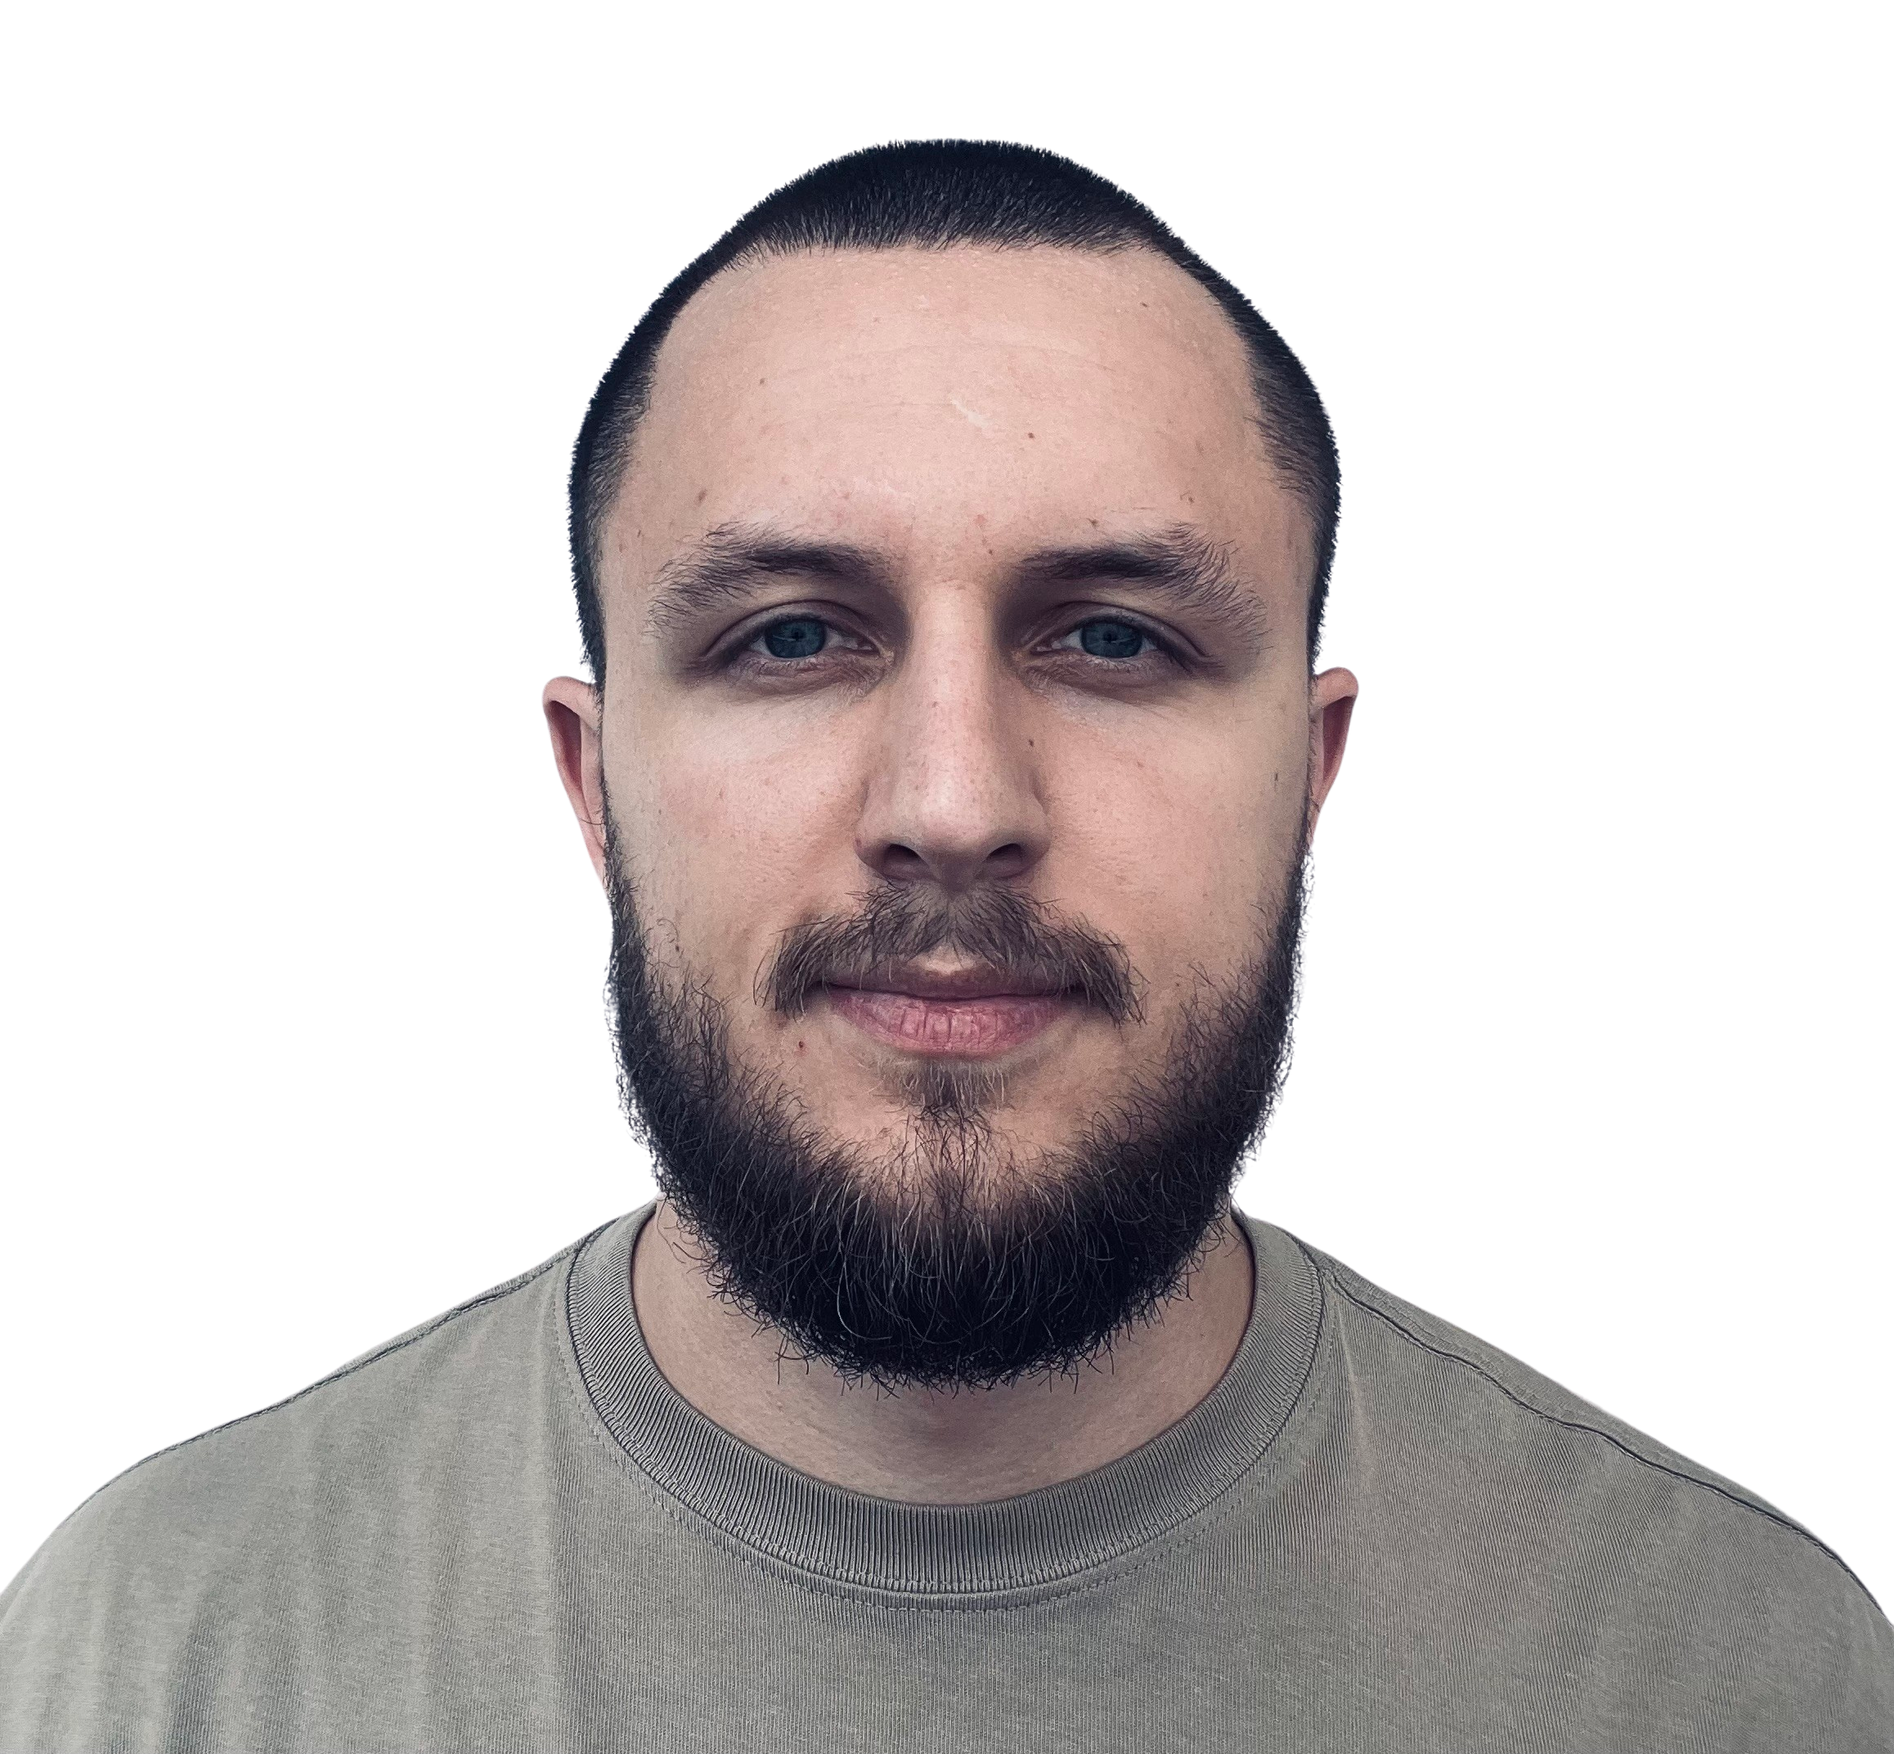
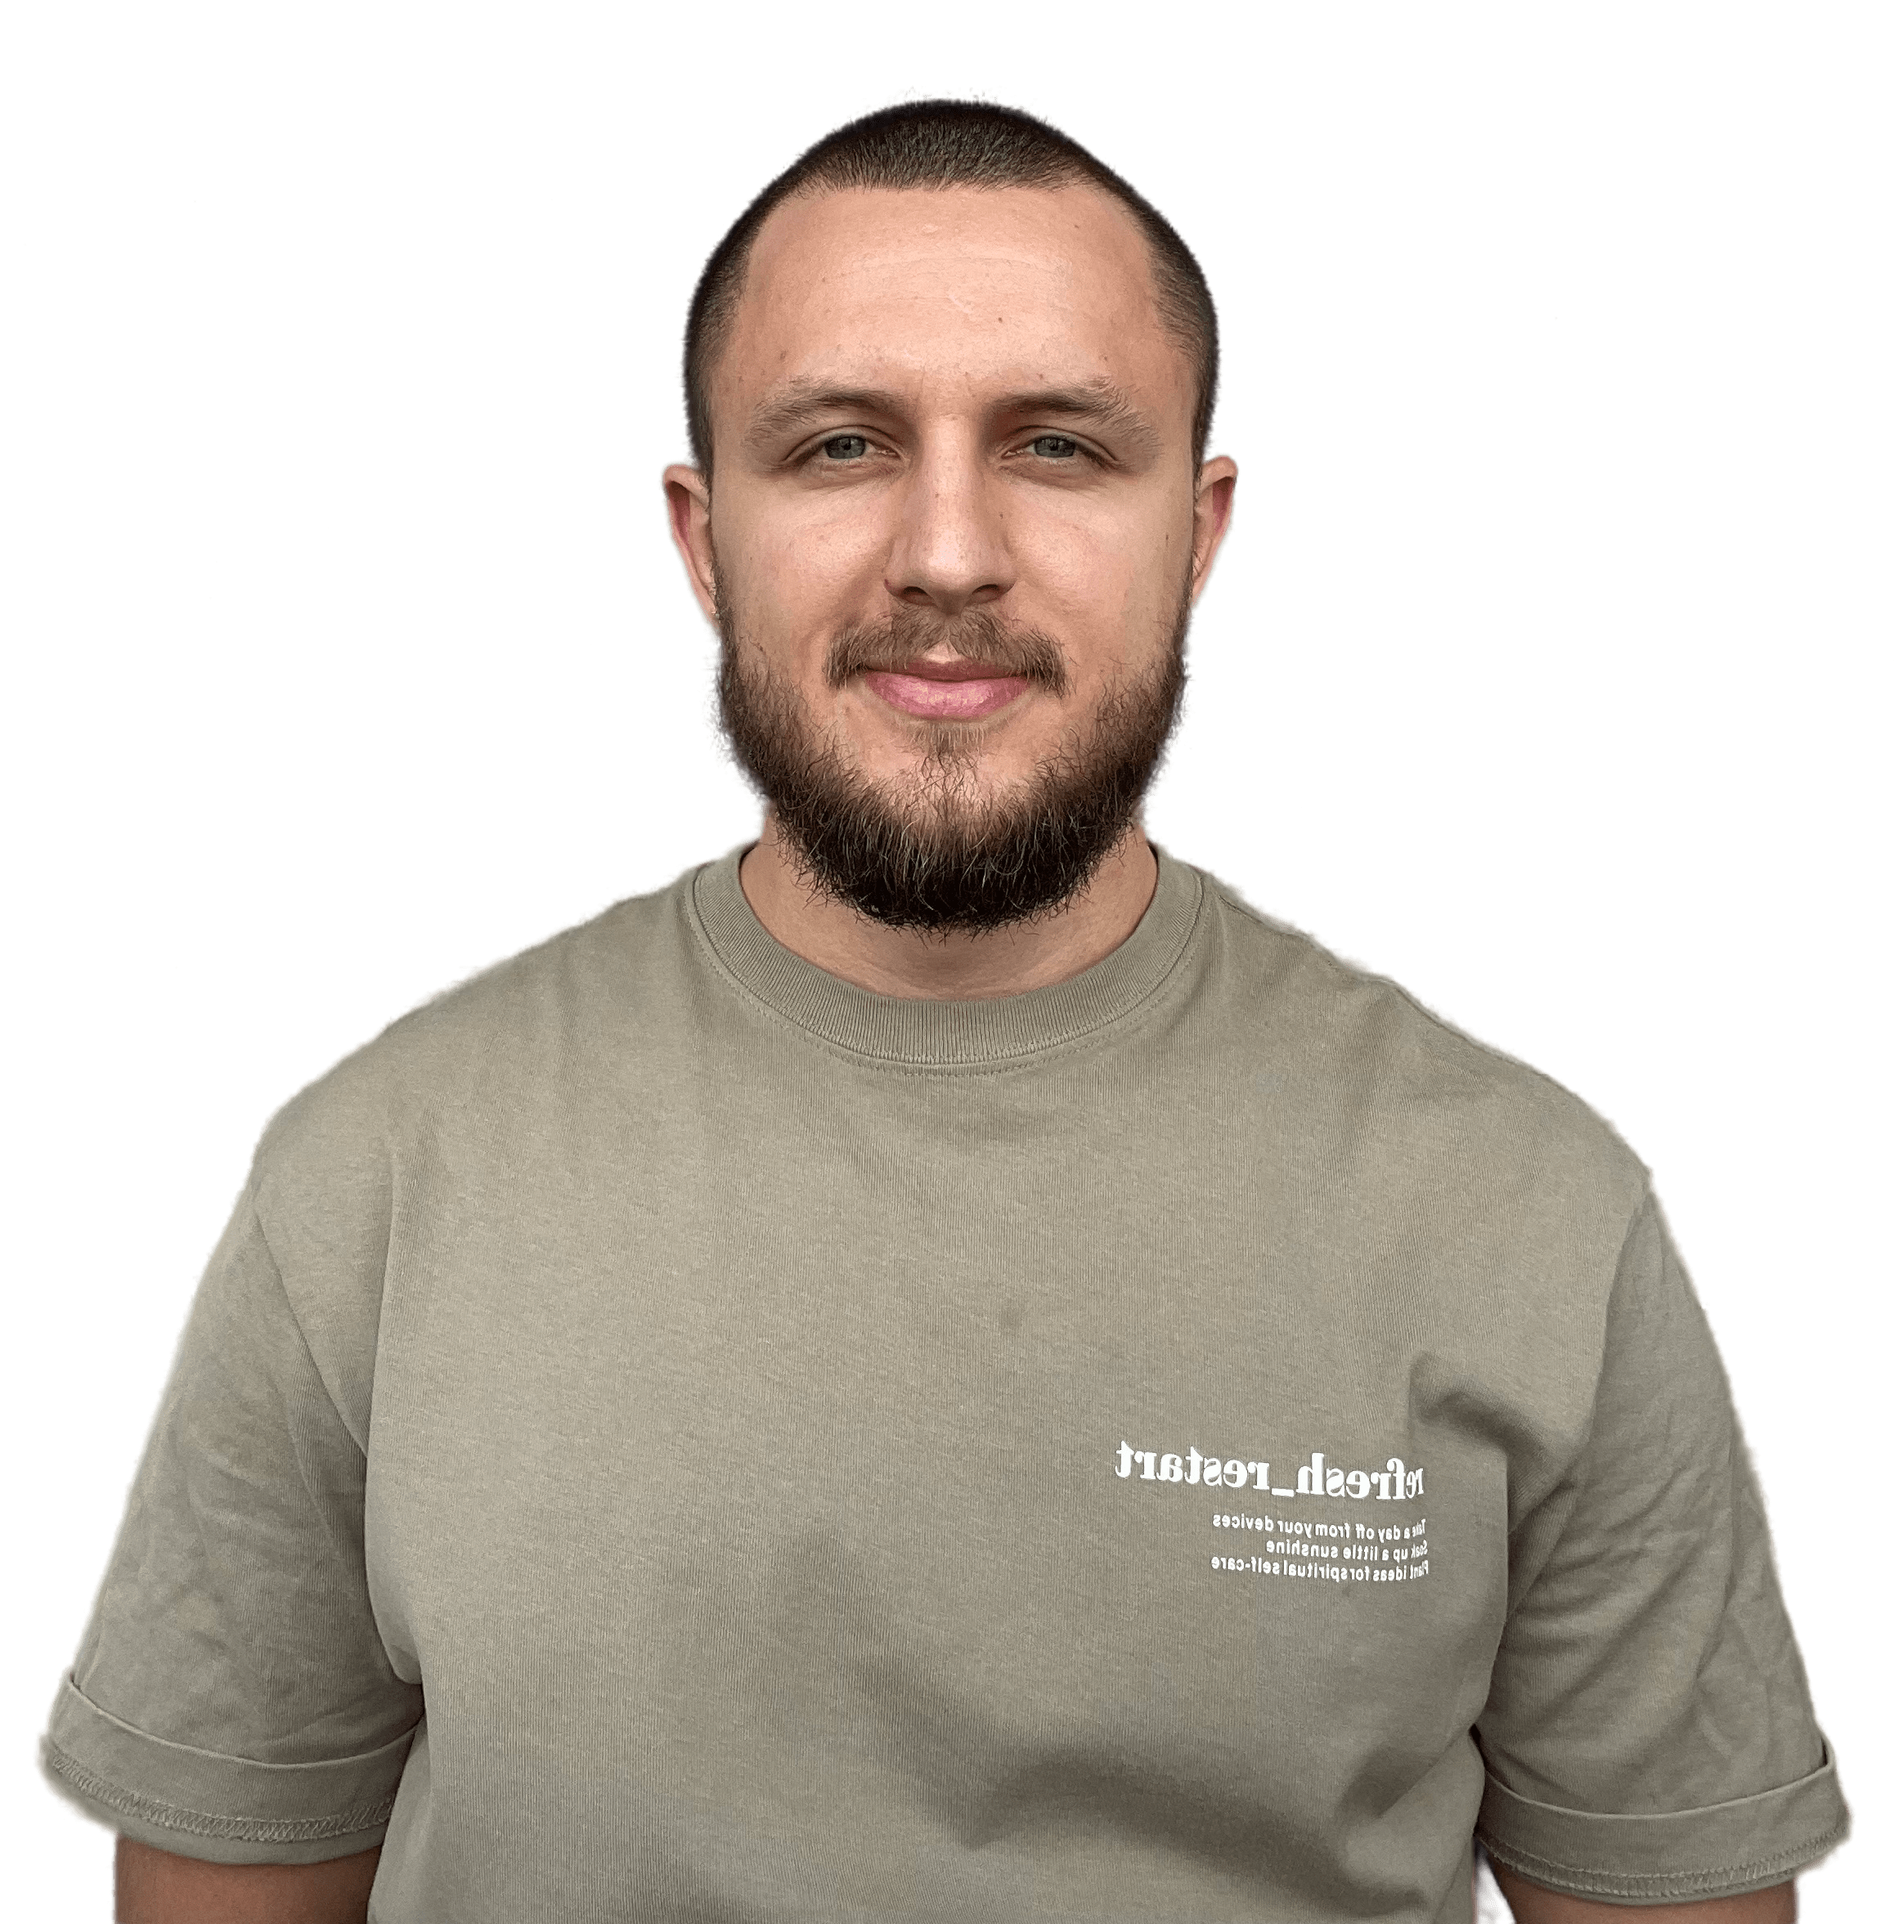
new photo in hero

diff --git a/src/components/main/components/hero/Hero.module.scss b/src/components/main/components/hero/Hero.module.scss
@@ -49,7 +49,12 @@
 
 		.heroImg {
 			height: auto;
-			max-width: 500px;
+			max-width: 400px;
+			filter: drop-shadow(0px 0px 10px #848484) grayscale(70%);
+
+			@media (max-width: 600px) {
+				width: 100%;
+			}
 		}
 	}
 }
